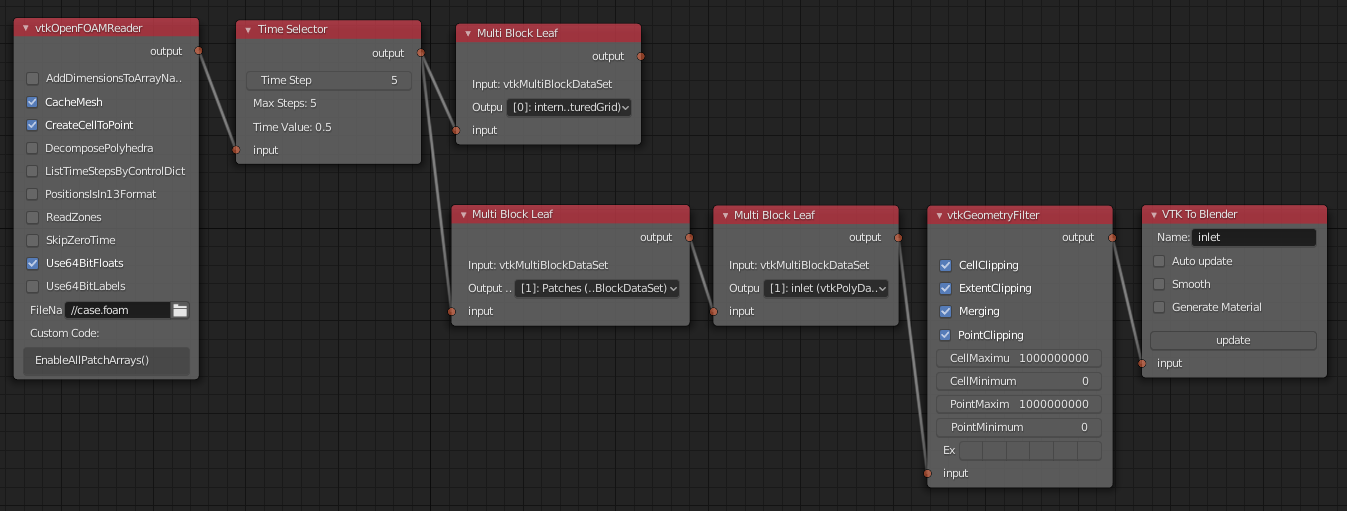
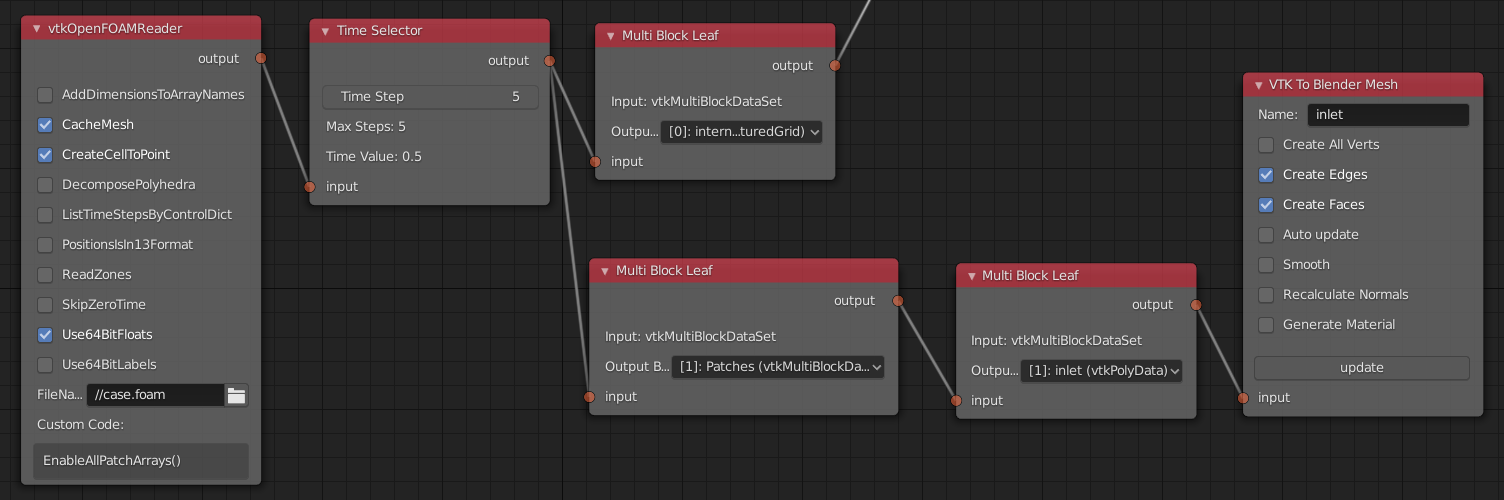
Update doc UG examples to VTK To Blender Mesh node
- New images for use of VTK To Blender Mesh.
- Other minor docs fixes.

diff --git a/docs/ug_nodes.rst b/docs/ug_nodes.rst
@@ -30,7 +30,7 @@ data read in:
 
 When data is read in correctly, the *Info* node shows number of
 points/cells, and fields read in. Set **Time Step** value to **5** in
-*Time Selector* node either manually or by changing frame number in
+*Time Selector* node by changing frame number in
 Blender Timeline Editor.
 
 .. image:: images/ug_reader_nodesetup.png
@@ -41,7 +41,7 @@ that you may need to adjust reader settings and/or add *Custom Code*
 to some readers, depending on your case and data. For example, to force
 the parallel OpenFOAM reader *vtkPOpenFOAMReader* to read the decomposed
 case files instead of reconstructed serial case files, you must add
-custom code `SetCaseType(0)` to the reader node.
+custom code ``SetCaseType(0)`` to the reader node.
 
 * *vtkXMLUnstructuredGridReader* for **.vtu** files
 * *vtkPolyDataReader* for some **.vtk** files
@@ -56,18 +56,23 @@ in example above.
 Extract Boundary Surfaces
 -------------------------
 
-*vtkGeometryFilter* followed by *VTK To Blender* extracts all boundary
-surfaces.
+*VTK To Blender Mesh* node extracts all boundary surfaces.
+
+.. image:: images/vtk_to_blender_mesh_node.png
+
+Alternatively you can use *vtkGeometryFilter* followed by the legacy
+*VTK To Blender* node.
+**Note**: This may not produce correct results for polyhedron meshes.
 
 .. image:: images/ug_boundary_nodesetup.png
 
 If you want to extract a single boundary patch for OpenFOAM case, you
 need to
 
-* Add **EnableAllPatchArrays()** Custom Code to *vtkOpenFOAMReader*
+* Add ``EnableAllPatchArrays()`` Custom Code to *vtkOpenFOAMReader*
   (see :ref:`custom_code`).
 * Add two *Multi Block Leaf* nodes in series to select patches and the
-  wanted patch, before connecting to *vtkGeometryFilter*.
+  wanted patch, before connecting to *VTK To Blender Mesh*.
 
 .. image:: images/ug_extract_boundary_patch_nodesetup.png
 
@@ -115,11 +120,11 @@ Use *vtkCutter* in combination with a geometry generator (like
   *vtkCutter* node.
 * Connect *Color Ramp* to the **lookuptable** connector in the *Color
   Mapper* node.
-* In the *VTK To Blender* node, you must enable **Generate Material**,
+* In the *VTK To Blender Mesh* node, you must enable **Generate Material**,
   so that result colors will be shown after final Update. Note: 3D
   Viewport must be in *Material Preview* or *Rendered* mode to see the
   colors.
-* Run *Update* on the *VTK To Blender* node, then select the correct
+* Run *Update* on the *VTK To Blender Mesh* node, then select the correct
   field for **color by** in *Color Mapper* node, fix range min and max
   if required, and click *Update* again.
 
@@ -147,7 +152,7 @@ how to color glyphs by velocity magnitude.
 * Add *vtkGlyph3D* node, and set **ScaleFactor** to 20, and
   **ColorMode** to ColorByVector.
 * Connect *vtkArrowSource* to **input 1**, and add *Color Mapper*,
-  *Color Ramp*, and *VTK To Blender* (with Generate Material enabled).
+  *Color Ramp*, and *VTK To Blender Mesh* (with Generate Material enabled).
 * Run *Update*, select *Vector Magnitude* in *Color Mapper* node, and
   run *Update* again.
 
@@ -185,12 +190,10 @@ Contours can be generated with *vtkContourFilter*:
 * Add *vtkContourFilter*, and add wanted contour values by pressing
   the plus icon and then input three values: 0.017, 0.02, 0.023.
   Disable **GenerateTriangles** to retain polyhedrons.
-* **Optional:** Add *vtkGeometryFilter* and modify minimum values if you
-  want to test first to get only a small part of a large domain.
-* Add *Color Mapper*, *Color Ramp* and *VTK To Blender* nodes. In *VTK
-  To Blender* node, select both **Generate Material** and **Smooth**
+* Add *Color Mapper*, *Color Ramp* and *VTK To Blender Mesh* nodes. In *VTK
+  To Blender Mesh* node, select both **Generate Material** and **Smooth**
   to get smoothened face normals.
-* Run *Update* on the *VTK To Blender* node, select appropriate
+* Run *Update* on the *VTK To Blender Mesh* node, select appropriate
   coloring in *Color Mapper*, and rerun *Update*.
 
 .. image:: images/ug_contour_nodesetup.png
@@ -241,9 +244,9 @@ e.g. *vtkTubeFilter* using this node setup:
   **Radius**.
 * *vtkPolyDataNormals* (without **FlipNormals**) is needed to get good
   face normals for the result.
-* Finally add *Color Mapper*, *Color Ramp* and *VTK To Blender* with
+* Finally add *Color Mapper*, *Color Ramp* and *VTK To Blender Mesh* with
   **Generate Material** and **Smooth** on.
-* Run *Update* on the *VTK To Blender* node, select appropriate
+* Run *Update* on the *VTK To Blender Mesh* node, select appropriate
   coloring in *Color Mapper*, and rerun *Update*.
 
 .. image:: images/ug_stream_tracers_nodesetup.png

diff --git a/docs/BVTKNodes.rst b/docs/BVTKNodes.rst
@@ -345,7 +345,8 @@ lists, without any pre-processing. This works well when VTK data
 consists of simple cells with ordered vertices as input, such as
 e.g. trigonal or quadrigonal boundary faces generated with
 *vtkGeometryFilter*. Direct conversion of 3D cells or polygons does
-not work correctly.
+not work correctly. In those cases, please use `VTK To Blender Mesh`_
+node without *vtkGeometryFilter* instead.
 
 - **Name** specifies the object and mesh names for the Blender object
   which will be created. **Note:** Any pre-existing mesh will be deleted
@@ -388,6 +389,8 @@ following additions:
 - **Create Faces**: If enabled, creates boundary faces (faces used by
   only one VTK cell). Internal faces (faces shared by two
   3D cells) are not exported.
+
+.. image:: images/vtk_to_blender_mesh_node.png
 
 
 VTK To Blender Particles
